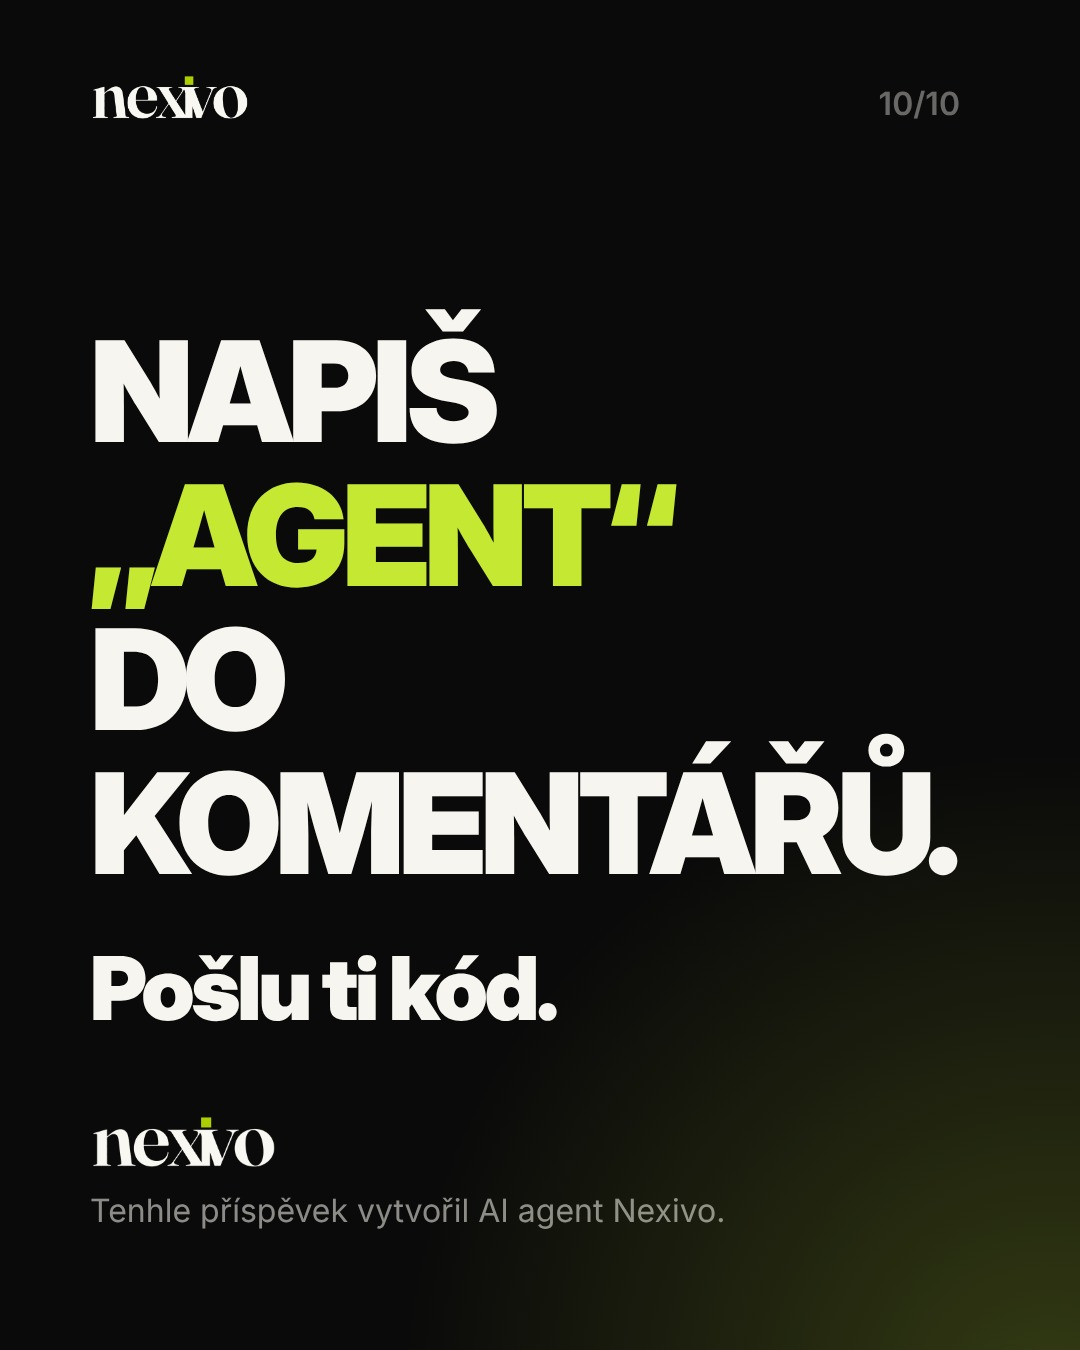
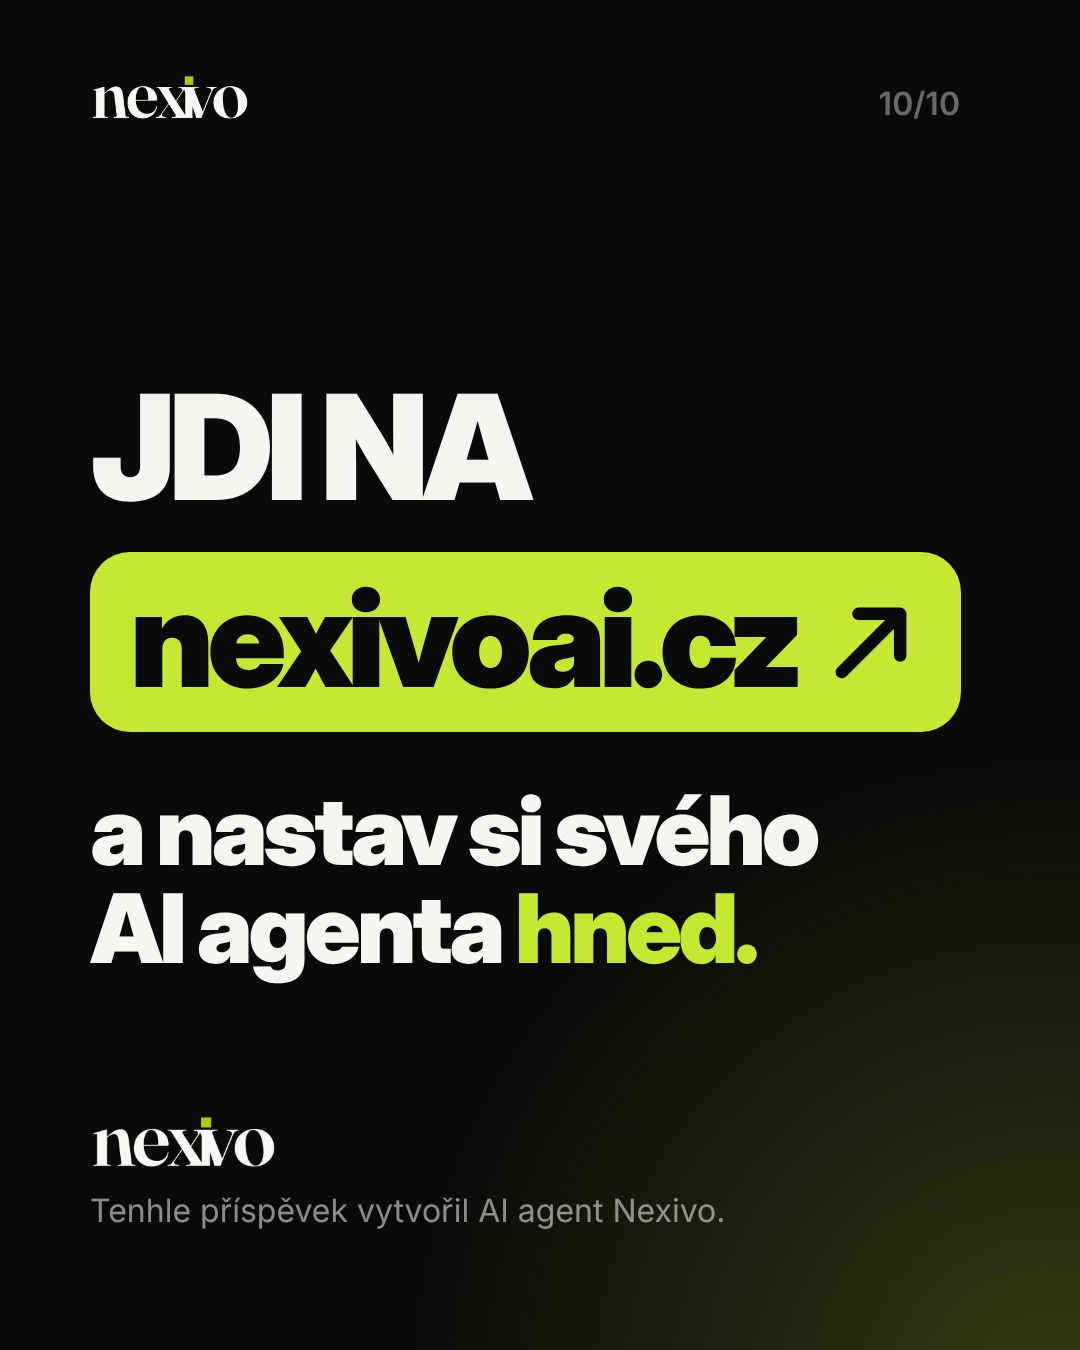
Social: agent carousel CTA points to nexivoai.cz
Claude-Session: https://claude.ai/code/session_01UWJCsqHtynwQNSwkqfUNGi

Changed region(s): [[0.0611, 0.2178, 0.9167, 0.7778]]

diff --git a/social/carousels/agent-o-sobe/index.html b/social/carousels/agent-o-sobe/index.html
@@ -82,6 +82,10 @@ body { background: #555; font-family: "Inter", -apple-system, sans-serif; color:
 .by { position: absolute; left: 90px; right: 120px; bottom: 120px; display: flex; flex-direction: column; gap: 18px; }
 .by img { height: 56px; align-self: flex-start; }
 .by span { font-size: 32px; color: rgba(247,245,239,.55); }
+.url { margin-top: 30px; align-self: flex-start; display: inline-flex; align-items: center; gap: 24px; padding: 18px 40px 26px; border-radius: 40px; background: var(--lime); color: var(--ink); }
+.url span { font-family: "Inter Display", "Inter", sans-serif; font-weight: 900; font-size: 136px; line-height: 1; letter-spacing: -0.05em; }
+.url svg { width: 100px; height: 100px; fill: none; stroke: var(--ink); stroke-width: 3; stroke-linecap: round; stroke-linejoin: round; margin-top: 10px; }
+.h.sm2 { font-size: 96px; line-height: 1.02; margin-top: 50px; }
 </style>
 </head>
 <body>
@@ -178,8 +182,9 @@ body { background: #555; font-family: "Inter", -apple-system, sans-serif; color:
 <section class="slide hook">
   <img class="logo" src="../../../assets/nexivo-logo-inverse.png" alt="">
   <div class="num">10/10</div>
-  <div class="ht cta">Napiš<br><span class="hl">„AGENT“</span><br>do komentářů.</div>
-  <div class="h sm">Pošlu ti kód.</div>
+  <div class="ht">Jdi na</div>
+  <div class="url"><span>nexivoai.cz</span><svg viewBox="0 0 24 24"><path d="M5 19L19 5M9 5h10v10"/></svg></div>
+  <div class="h sm2">a nastav si svého AI&nbsp;agenta <span class="hl">hned.</span></div>
   <div class="by"><img src="../../../assets/nexivo-logo-inverse.png" alt=""><span>Tenhle příspěvek vytvořil AI agent Nexivo.</span></div>
 </section>
 </body>

diff --git a/social/export/4-agent-o-sobe/4-agent-o-sobe-TEXTY.md b/social/export/4-agent-o-sobe/4-agent-o-sobe-TEXTY.md
@@ -10,7 +10,7 @@
 7. Umí toho víc: Kalkulace a poptávky · Správa kalendáře · Kontrola e-mailů
 8. Pro koho? Kadeřnictví · Barbershopy · Autoservisy · Realitky · Stavební firmy
 9. ~~2 490 Kč~~ 990 Kč měsíčně · první 3 měsíce · Kód NEXIVOAGENT60 · Nastavíš si ho sám.
-10. NAPIŠ „AGENT“ DO KOMENTÁŘŮ. Pošlu ti kód. · logo · „Tenhle příspěvek vytvořil AI agent Nexivo.“
+10. JDI NA [nexivoai.cz ↗] a nastav si svého AI agenta hned. · logo · „Tenhle příspěvek vytvořil AI agent Nexivo.“
 
 ## B) Reels · scénář po sekundách (1080 × 1920, 20 s, bez zvuku)
 | Čas | Obraz | Text |
@@ -28,8 +28,8 @@ Hudbu (dynamická, bez vokálů) přidej v Instagramu při publikaci.
 ## C) Popisek ke karuselu
 Tenhle příspěvek nenapsal člověk.
 Majitel nahrál 3 fotky a napsal jednu větu. Text, grafiku, hashtagy i naplánování udělal AI agent Nexivo. Za pár vteřin místo hodiny práce.
-Teď ho můžeš mít i ty: 990 Kč měsíčně místo 2 490 Kč na první 3 měsíce.
-Napiš do komentářů AGENT a pošlu ti kód.
+Teď ho můžeš mít i ty: 990 Kč měsíčně místo 2 490 Kč na první 3 měsíce s kódem NEXIVOAGENT60.
+Jdi na nexivoai.cz a nastav si svého AI agenta hned.
 
 ## D) Popisek k Reelsu
 Tohle video nenatočil člověk. Udělal ho AI agent Nexivo.
